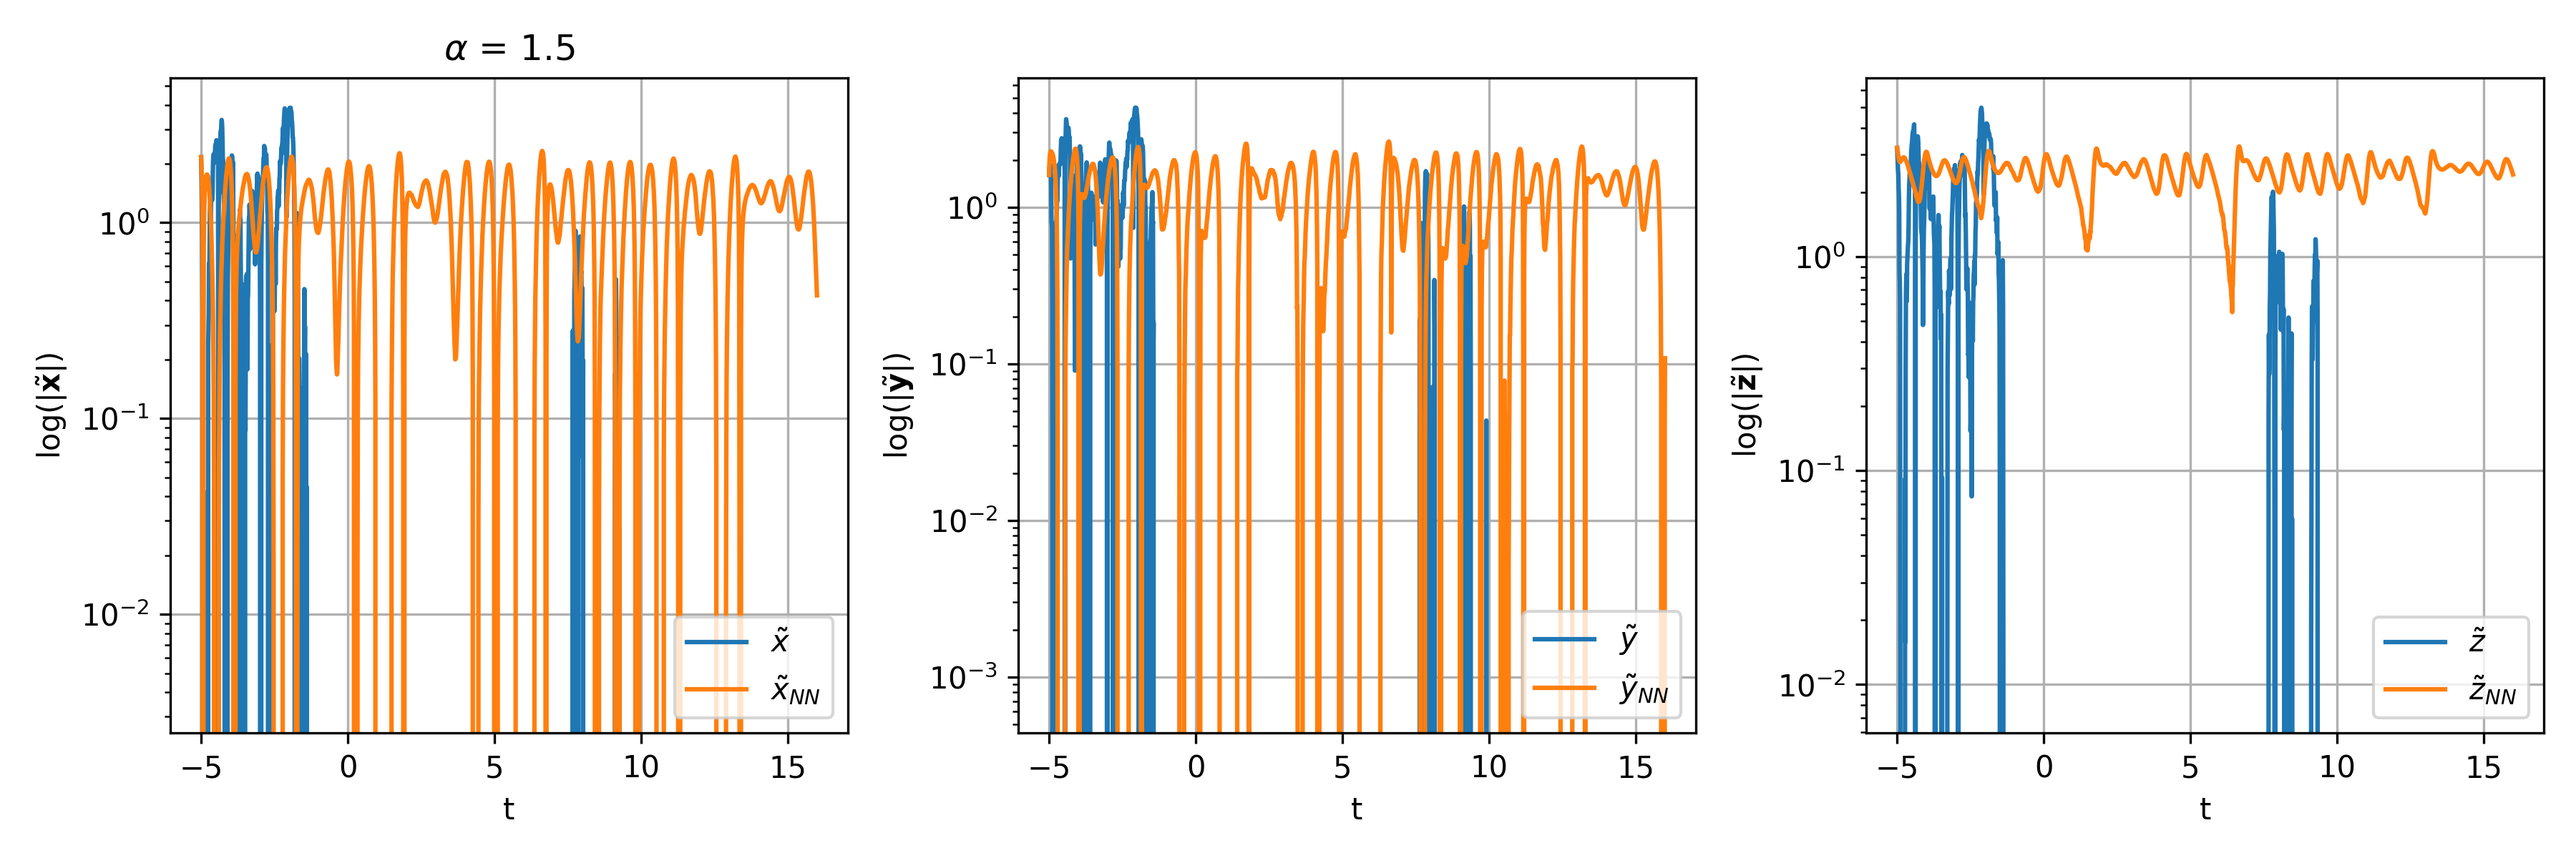
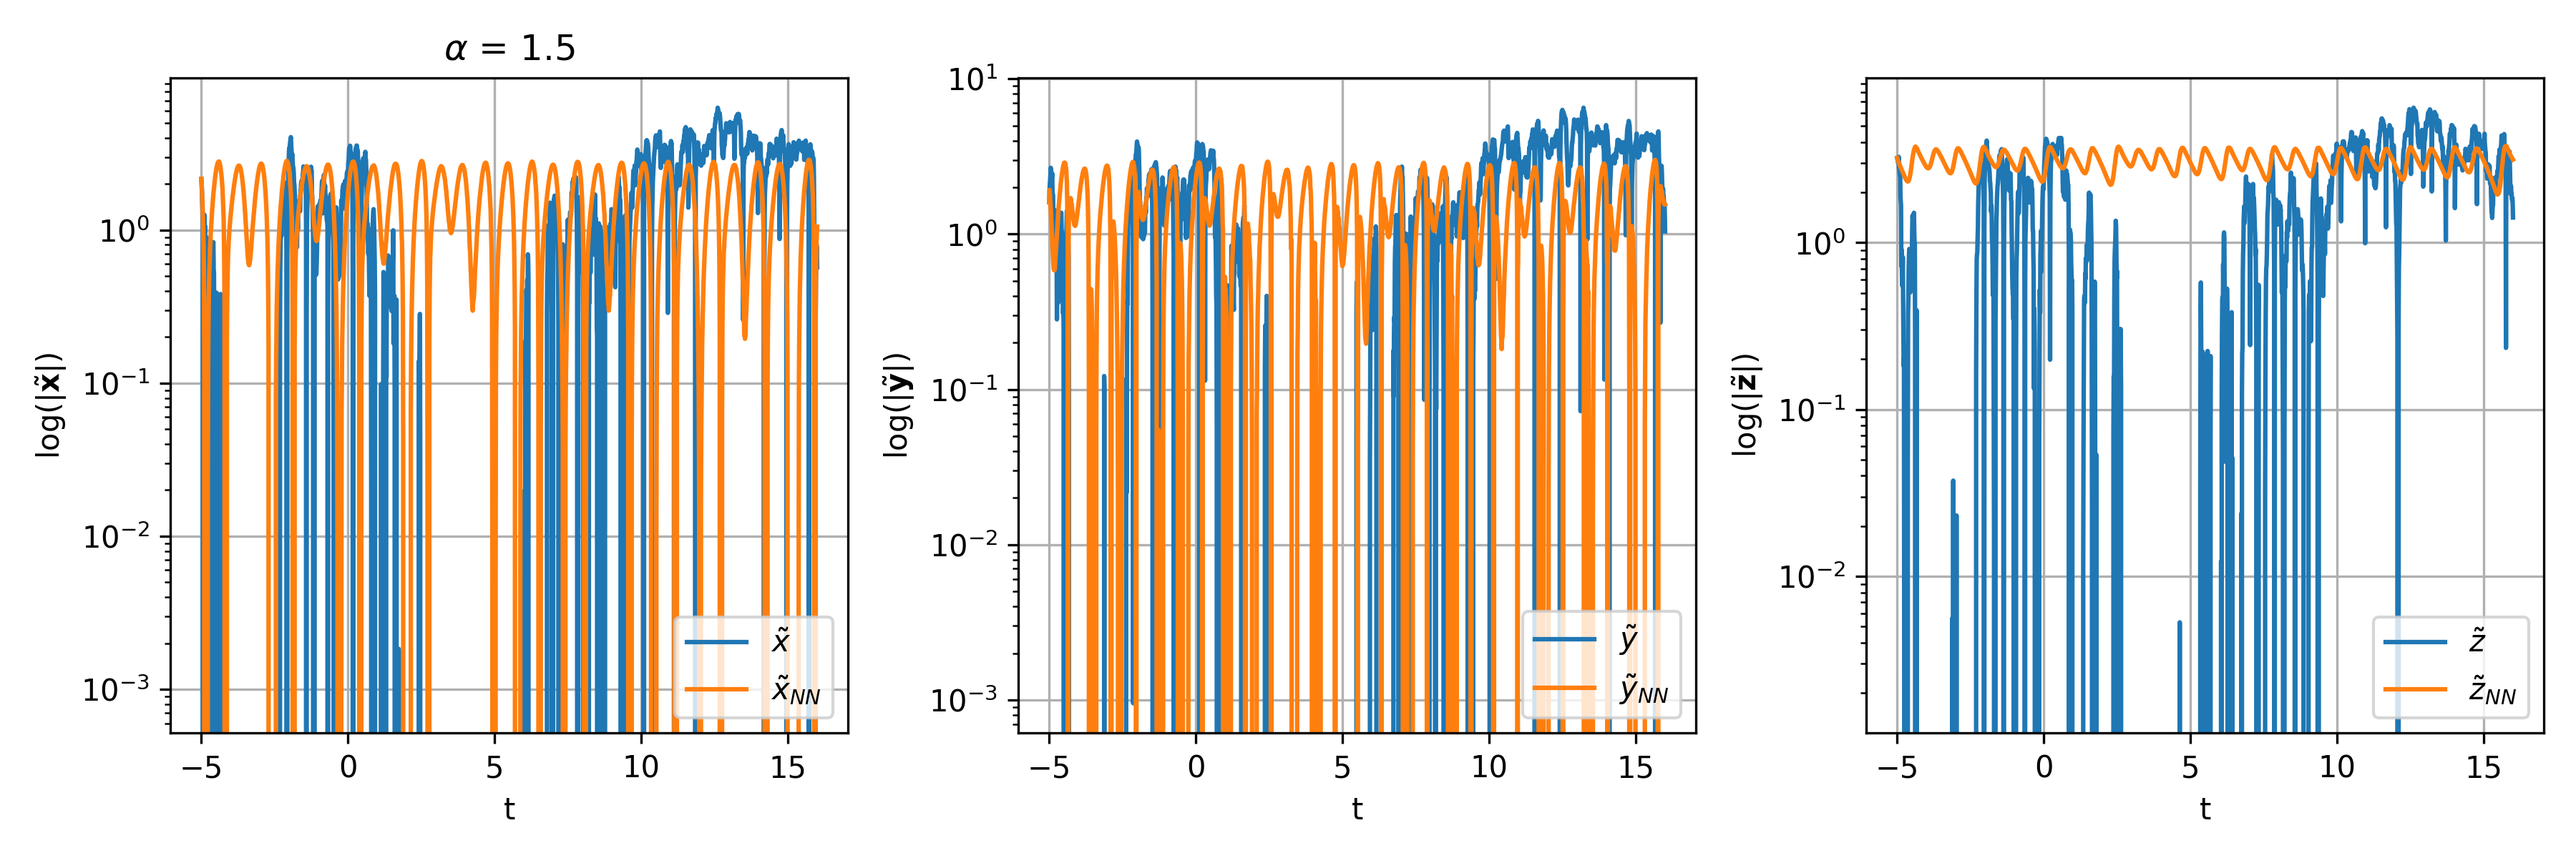
works with xn and xtilde now...

Changed region(s): [[0.0311, 0.1233, 0.6533, 0.8633], [0.6844, 0.1233, 0.9956, 0.8633]]

diff --git a/diffusion-train-network.py b/diffusion-train-network.py
@@ -202,7 +202,7 @@ for n in range(N-1):
     # compare naive model to NN
     alpha = 1.5
     xtilde[n+1,:] = xtilde[n,:] + np.matmul(dfdx(x_n[n,:]),xtilde[n,:])*dt + naive_model(alpha)*dW[n]
-    xtilde_NN[n+1,:] = sde_i.sample_tilde_xn1(xtilde_NN[n,:], xtilde_NN[n,:], dt, jac_par, diffusivity_type)
+    xtilde_NN[n+1,:] = sde_i.sample_tilde_xn1(xtilde_NN[n,:], x_n[n,:], dt, jac_par, diffusivity_type)
 
 
 plt.figure(1)
